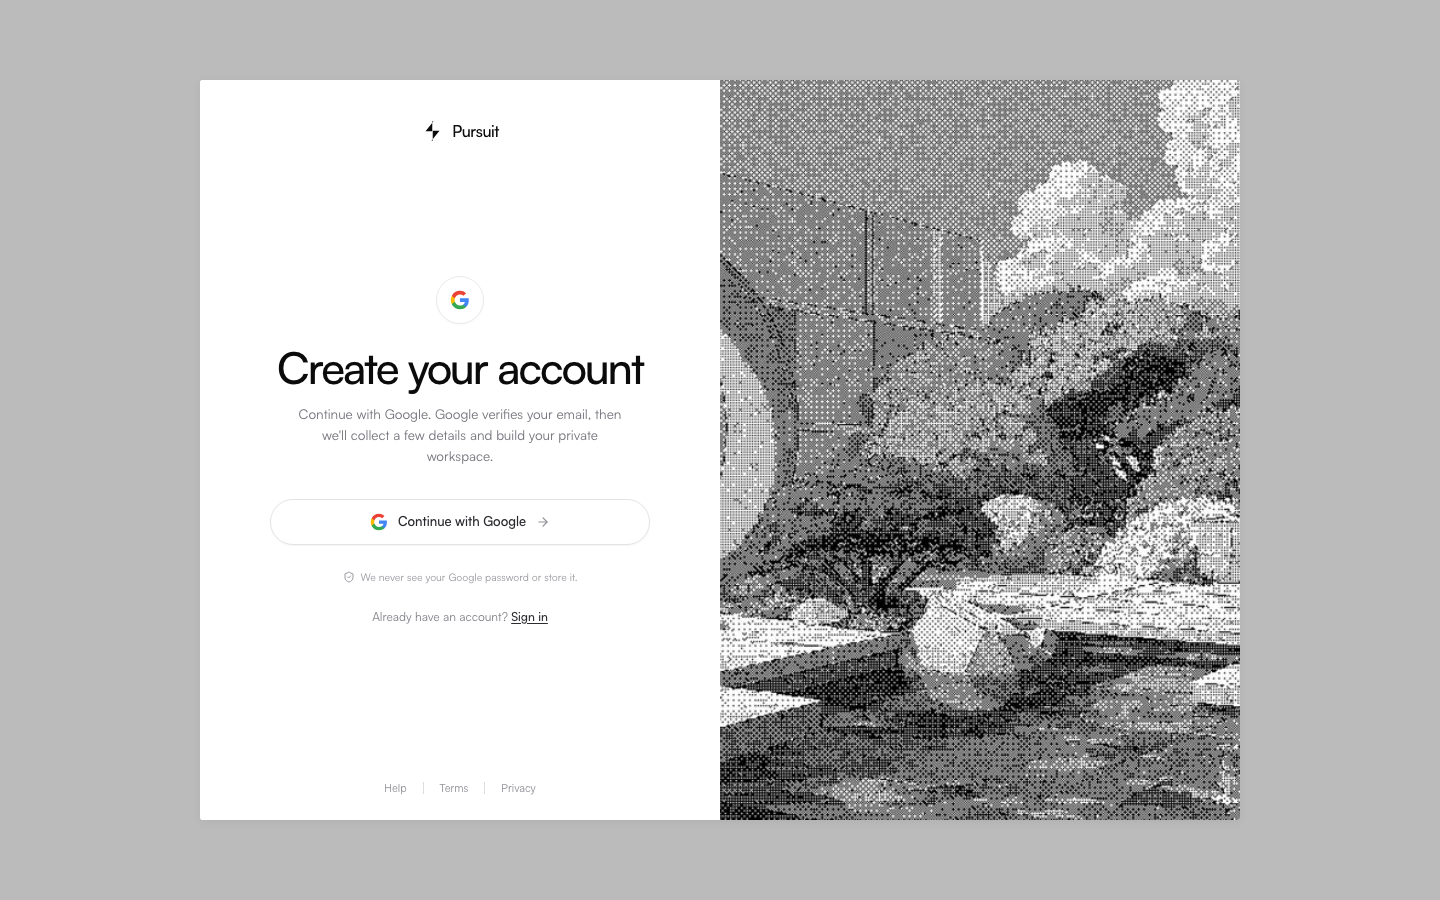
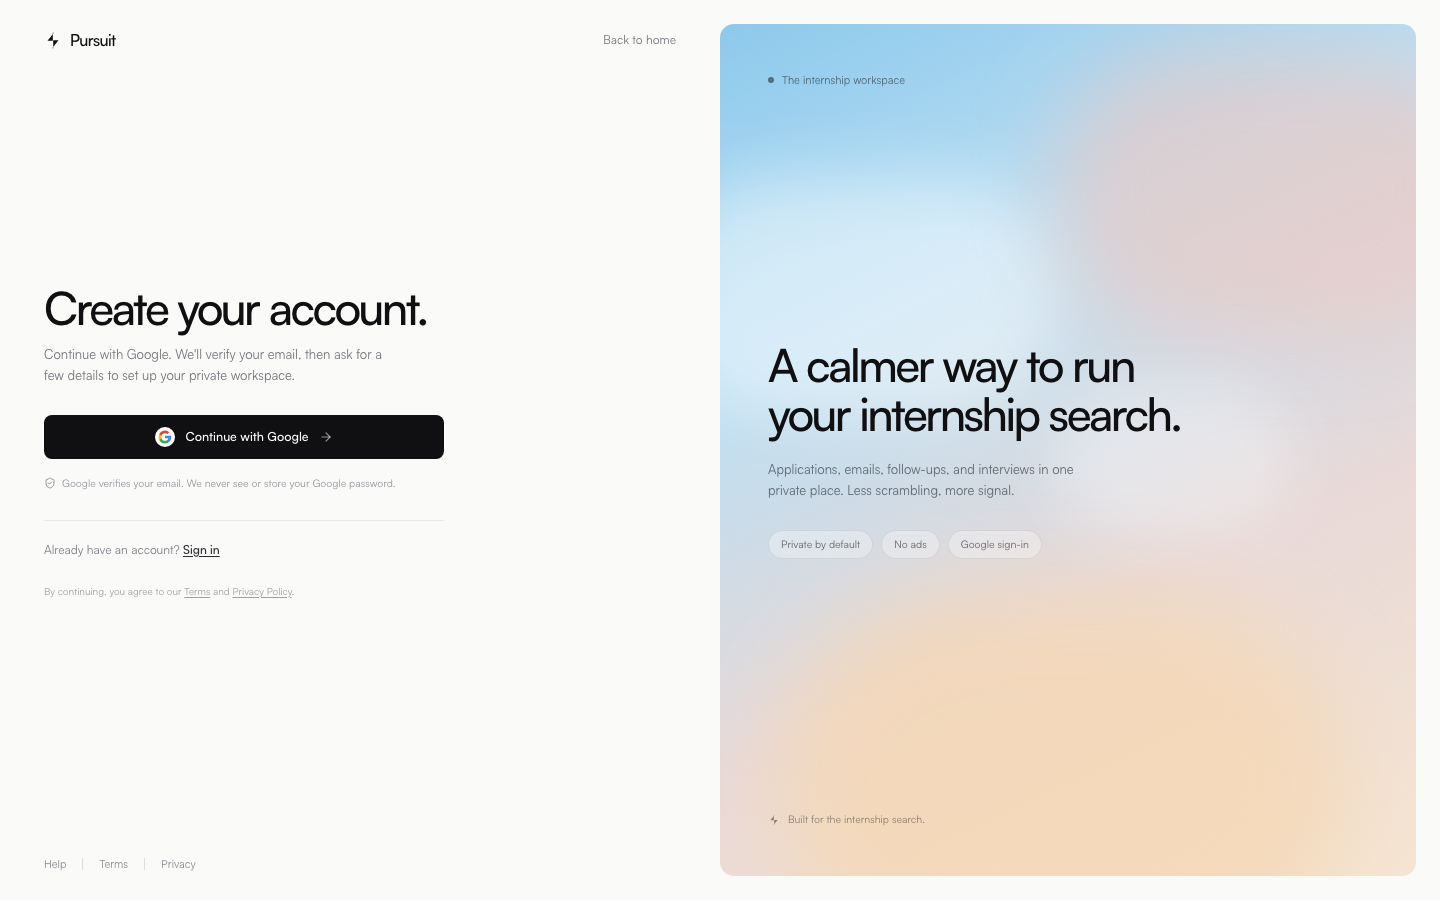
Refresh landing and auth screenshots

diff --git a/scripts/test-flows.ts b/scripts/test-flows.ts
@@ -21,7 +21,7 @@ async function main() {
 
   try {
     await page.goto(`${base}/login`, { waitUntil: "networkidle" });
-    assert(await page.getByRole("heading", { name: "Welcome back!" }).isVisible(), "login page renders");
+    assert(await page.getByRole("heading", { name: "Welcome back." }).isVisible(), "login page renders");
 
     await page.getByRole("button", { name: "Open demo" }).click();
     await page.waitForURL("**/dashboard", { timeout: 30_000 });
